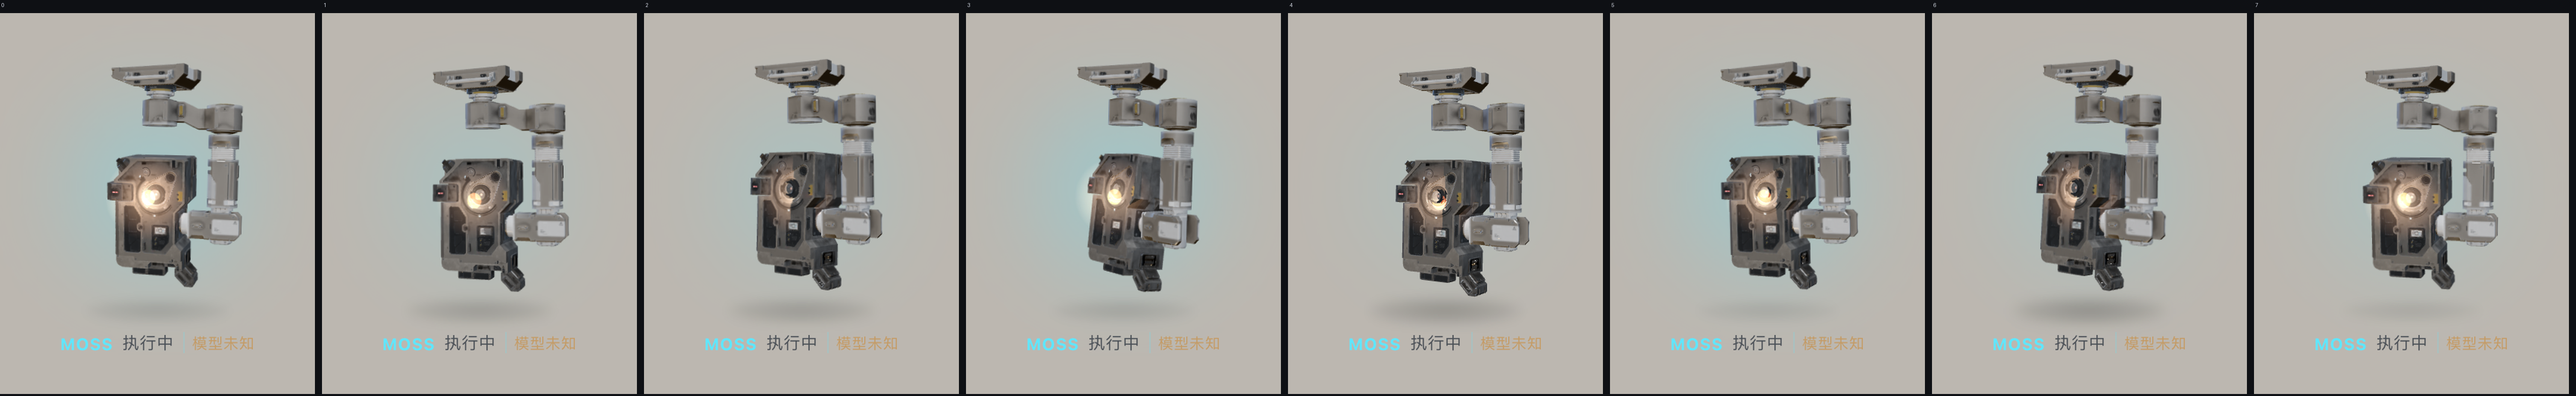
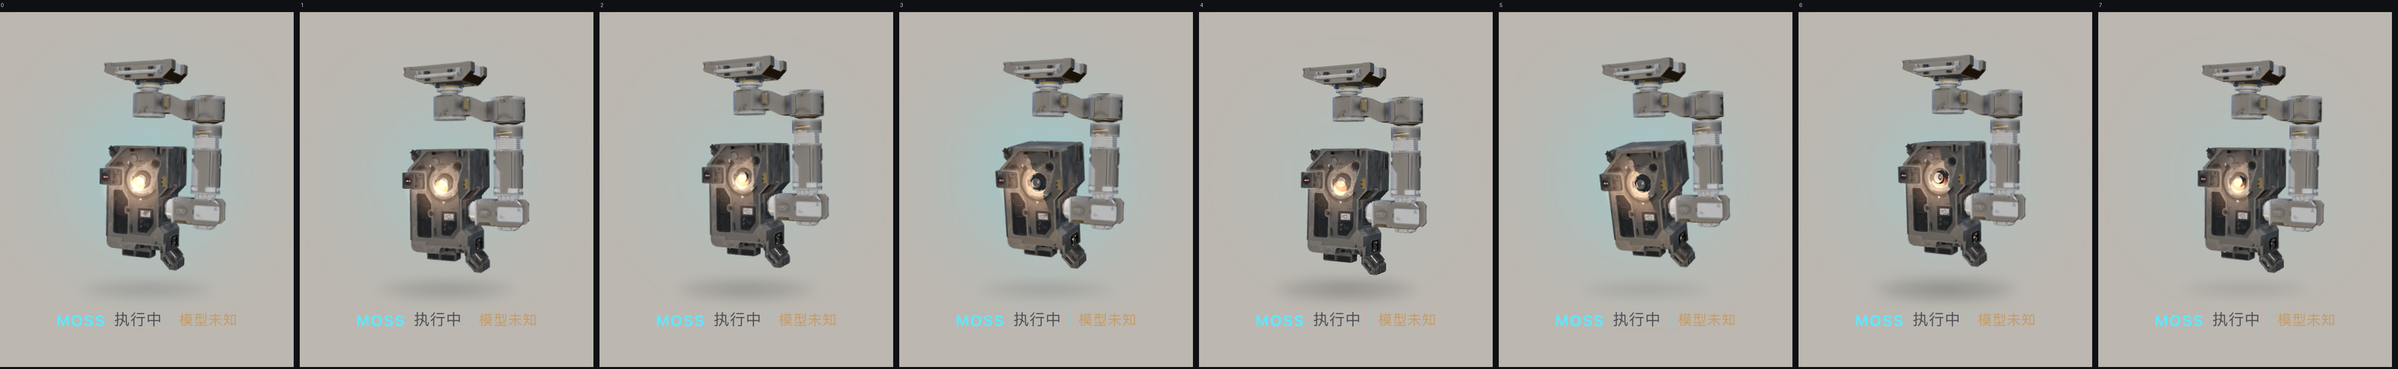
feat(moss): 执行态扩到 10 组动作，每组 20s（共 200s 循环）
1 扫视巡检 / 2 点头确认 / 3 分步转向 / 4 快扫 / 5 抬头检查 /
6 深度思考 / 7 锁定目标 / 8 反向复核 / 9 微动待机 / 10 归位
- 每组首尾均回到归位姿态，组间无跳变
- 每组 20s，关键帧含停顿段（机械节奏）与红眼亮度
- 素材版本 v72

diff --git a/assets3d/boot.js b/assets3d/boot.js
@@ -312,41 +312,107 @@ export function createMoss3D(canvas, opts) {
     ]
 
     const WORK = [
-      { name: '扫描', dur: 3.4, keys: [
-        { t: 0.0, a1: 0, a2: 0, a3: 0, eye: 0.75 },
-        { t: 1.1, a1: -19, a2: 8, a3: -4, eye: 1.00 },
-        { t: 1.7, a1: -19, a2: 8, a3: -4, eye: 0.70 },
-        { t: 2.8, a1: 19, a2: -8, a3: 5, eye: 1.00 },
-        { t: 3.4, a1: 19, a2: -8, a3: 5, eye: 0.80 },
+      /* 1 扫视巡检：左右大范围巡视，转向瞬间眼亮 */
+      { name: '扫视巡检', dur: 20, keys: [
+        { t: 0, a1: 0, a2: 0, a3: 0, eye: 0.70 },
+        { t: 3.5, a1: -20, a2: 9, a3: -3, eye: 1.00 },
+        { t: 6.5, a1: -20, a2: 9, a3: -3, eye: 0.60 },
+        { t: 10, a1: 20, a2: -9, a3: 4, eye: 1.00 },
+        { t: 13.5, a1: 20, a2: -9, a3: 4, eye: 0.60 },
+        { t: 16.5, a1: 6, a2: -3, a3: 1, eye: 0.85 },
+        { t: 20, a1: 0, a2: 0, a3: 0, eye: 0.70 },
       ] },
-      { name: '点头确认', dur: 2.2, keys: [
-        { t: 0.0, a1: 19, a2: -8, a3: 5, eye: 0.80 },
-        { t: 0.35, a1: 12, a2: -3, a3: 11, eye: 1.05 },
-        { t: 0.7, a1: 12, a2: -3, a3: -2, eye: 0.55 },
-        { t: 1.05, a1: 12, a2: -3, a3: 11, eye: 1.05 },
-        { t: 1.4, a1: 12, a2: -3, a3: -2, eye: 0.55 },
-        { t: 2.2, a1: 12, a2: -3, a3: 0, eye: 0.85 },
+      /* 2 点头确认：三次点头，每次闪一下 */
+      { name: '点头确认', dur: 20, keys: [
+        { t: 0, a1: 0, a2: 0, a3: 0, eye: 0.70 },
+        { t: 2, a1: 0, a2: 0, a3: 10, eye: 1.05 },
+        { t: 3, a1: 0, a2: 0, a3: -3, eye: 0.50 },
+        { t: 5, a1: 0, a2: 0, a3: 10, eye: 1.05 },
+        { t: 6, a1: 0, a2: 0, a3: -3, eye: 0.50 },
+        { t: 8, a1: 0, a2: 0, a3: 10, eye: 1.05 },
+        { t: 9.2, a1: 0, a2: 0, a3: -3, eye: 0.50 },
+        { t: 13, a1: 7, a2: -3, a3: 3, eye: 0.85 },
+        { t: 17, a1: -4, a2: 2, a3: -1, eye: 0.75 },
+        { t: 20, a1: 0, a2: 0, a3: 0, eye: 0.70 },
       ] },
-      { name: '转向停顿', dur: 3.6, keys: [
-        { t: 0.0, a1: 12, a2: -3, a3: 0, eye: 0.85 },
-        { t: 0.6, a1: -16, a2: 7, a3: -3, eye: 1.00 },
-        { t: 1.5, a1: -16, a2: 7, a3: -3, eye: 0.62 },
-        { t: 2.1, a1: -16, a2: -9, a3: -6, eye: 0.95 },
-        { t: 3.0, a1: -16, a2: -9, a3: -6, eye: 0.70 },
-        { t: 3.6, a1: -10, a2: -4, a3: -2, eye: 0.85 },
+      /* 3 分步转向：走一步、停一下，机械感 */
+      { name: '分步转向', dur: 20, keys: [
+        { t: 0, a1: 0, a2: 0, a3: 0, eye: 0.72 },
+        { t: 1.8, a1: 24, a2: -10, a3: 0, eye: 1.00 },
+        { t: 6.5, a1: 24, a2: -10, a3: 0, eye: 0.58 },
+        { t: 8.2, a1: 24, a2: -10, a3: -7, eye: 0.95 },
+        { t: 13, a1: 24, a2: -10, a3: -7, eye: 0.55 },
+        { t: 15, a1: -18, a2: 8, a3: 3, eye: 1.00 },
+        { t: 17.2, a1: -18, a2: 8, a3: 3, eye: 0.65 },
+        { t: 20, a1: 0, a2: 0, a3: 0, eye: 0.72 },
       ] },
-      { name: '快扫', dur: 2.4, keys: [
-        { t: 0.0, a1: -10, a2: -4, a3: -2, eye: 0.85 },
-        { t: 0.3, a1: 4, a2: -2, a3: 2, eye: 1.10 },
-        { t: 0.6, a1: -12, a2: 5, a3: -3, eye: 0.70 },
-        { t: 0.9, a1: 6, a2: -3, a3: 3, eye: 1.10 },
-        { t: 1.2, a1: -8, a2: 3, a3: -2, eye: 0.70 },
-        { t: 1.6, a1: 2, a2: -1, a3: 1, eye: 0.95 },
-        { t: 2.4, a1: 0, a2: 0, a3: 0, eye: 0.80 },
+      /* 4 快扫：高频小幅摆动五次 */
+      { name: '快扫', dur: 20, keys: [
+        { t: 0, a1: 0, a2: 0, a3: 0, eye: 0.75 },
+        { t: 1.2, a1: 11, a2: -5, a3: 3, eye: 1.10 },
+        { t: 2.4, a1: -11, a2: 5, a3: -3, eye: 0.65 },
+        { t: 3.6, a1: 11, a2: -5, a3: 3, eye: 1.10 },
+        { t: 4.8, a1: -11, a2: 5, a3: -3, eye: 0.65 },
+        { t: 6, a1: 11, a2: -5, a3: 3, eye: 1.10 },
+        { t: 8, a1: 0, a2: 0, a3: 0, eye: 0.70 },
+        { t: 12, a1: -8, a2: 4, a3: -2, eye: 0.95 },
+        { t: 16, a1: 8, a2: -4, a3: 2, eye: 0.95 },
+        { t: 20, a1: 0, a2: 0, a3: 0, eye: 0.70 },
       ] },
-      { name: '归位', dur: 1.2, keys: [
-        { t: 0.0, a1: 0, a2: 0, a3: 0, eye: 0.80 },
-        { t: 1.2, a1: 0, a2: 0, a3: 0, eye: 0.62 },
+      /* 5 抬头检查：抬起来看，停住，再放回 */
+      { name: '抬头检查', dur: 20, keys: [
+        { t: 0, a1: 0, a2: 0, a3: 0, eye: 0.70 },
+        { t: 3, a1: 4, a2: -2, a3: 12, eye: 1.00 },
+        { t: 8, a1: 4, a2: -2, a3: 12, eye: 0.62 },
+        { t: 11, a1: -6, a2: 3, a3: -8, eye: 0.95 },
+        { t: 15, a1: -6, a2: 3, a3: -8, eye: 0.60 },
+        { t: 20, a1: 0, a2: 0, a3: 0, eye: 0.70 },
+      ] },
+      /* 6 深度思考：慢慢漂，长时间停住，眼缓慢起伏 */
+      { name: '深度思考', dur: 20, keys: [
+        { t: 0, a1: 0, a2: 0, a3: 0, eye: 0.55 },
+        { t: 5, a1: 5, a2: -2, a3: -4, eye: 0.80 },
+        { t: 12, a1: 6, a2: -3, a3: -4.5, eye: 0.62 },
+        { t: 16, a1: -3, a2: 1.5, a3: 2, eye: 0.72 },
+        { t: 20, a1: 0, a2: 0, a3: 0, eye: 0.55 },
+      ] },
+      /* 7 锁定目标：扫一圈后锁定一点，久停，眼最亮 */
+      { name: '锁定目标', dur: 20, keys: [
+        { t: 0, a1: 0, a2: 0, a3: 0, eye: 0.72 },
+        { t: 2.5, a1: -16, a2: 7, a3: 2, eye: 0.90 },
+        { t: 5, a1: 14, a2: -6, a3: -2, eye: 0.90 },
+        { t: 7.5, a1: 22, a2: -9, a3: 5, eye: 1.15 },
+        { t: 13, a1: 22, a2: -9, a3: 5, eye: 0.95 },
+        { t: 15.5, a1: 10, a2: -4, a3: 2, eye: 1.10 },
+        { t: 20, a1: 0, a2: 0, a3: 0, eye: 0.72 },
+      ] },
+      /* 8 反向复核：从另一侧再扫一遍 */
+      { name: '反向复核', dur: 20, keys: [
+        { t: 0, a1: 0, a2: 0, a3: 0, eye: 0.70 },
+        { t: 4, a1: 17, a2: -8, a3: -3, eye: 0.95 },
+        { t: 7, a1: 17, a2: -8, a3: -3, eye: 0.58 },
+        { t: 11, a1: -17, a2: 8, a3: 3, eye: 0.95 },
+        { t: 14, a1: -17, a2: 8, a3: 3, eye: 0.58 },
+        { t: 17, a1: -6, a2: 3, a3: 1, eye: 0.85 },
+        { t: 20, a1: 0, a2: 0, a3: 0, eye: 0.70 },
+      ] },
+      /* 9 微动待机：几乎不动，只偶尔闪一下 */
+      { name: '微动待机', dur: 20, keys: [
+        { t: 0, a1: 0, a2: 0, a3: 0, eye: 0.45 },
+        { t: 4, a1: 2.5, a2: -1, a3: 1.5, eye: 0.50 },
+        { t: 8, a1: -2, a2: 1, a3: -1, eye: 1.05 },
+        { t: 9, a1: -2, a2: 1, a3: -1, eye: 0.45 },
+        { t: 14, a1: 1.5, a2: -0.6, a3: 0.8, eye: 0.52 },
+        { t: 20, a1: 0, a2: 0, a3: 0, eye: 0.45 },
+      ] },
+      /* 10 归位：收尾，轻点头后回正 */
+      { name: '归位', dur: 20, keys: [
+        { t: 0, a1: 0, a2: 0, a3: 0, eye: 0.70 },
+        { t: 3, a1: 3, a2: -1.5, a3: 4, eye: 0.90 },
+        { t: 6, a1: 3, a2: -1.5, a3: -2, eye: 0.60 },
+        { t: 9, a1: 3, a2: -1.5, a3: 4, eye: 0.90 },
+        { t: 13, a1: -2, a2: 1, a3: 0, eye: 0.65 },
+        { t: 20, a1: 0, a2: 0, a3: 0, eye: 0.55 },
       ] },
     ]
 

diff --git a/client/client.js b/client/client.js
@@ -37,7 +37,7 @@ window.__ModuleLoader__.load({
     var ROOT_ID = 'dsh-pet-liang-root'
     var POS_KEY = 'dsh-pet-liang:pos'
     /* 素材改了名字没变，加一个版本号强制浏览器重新取（宿主给的是 immutable 缓存） */
-    var ASSET_V = '71'
+    var ASSET_V = '72'
     var STYLE_ID = 'dsh-pet-liang-style'
 
     /** 四档推理等级对应的称呼与氛围色。 */

diff --git a/README.md b/README.md
@@ -126,7 +126,20 @@ MOSS 形象不再用预渲染 PNG，而是**在插件里实时渲染你提供的
   | 思考 | 4.2s | 低头 −2.6° 并停顿，眼升到 0.72 再落 |
   | 微调 | 3.4s | 小幅反向修正，眼 0.52 |
 
-  **执行态**（大幅、机械感、多组轮流，总时长 12.8s 循环；每段“走完再停”缓动）
+  **执行态**（10 组 × 20s，共 200s 循环；每组首尾都回到归位姿态，组间不跳变；缓动为「走完再停」的机械节奏）
+
+  | # | 动作组 | 内容 | 红眼 |
+  | --- | --- | --- | --- |
+  | 1 | 扫视巡检 | 左 20° → 右 20°，各停顿 3s | 转向时 1.00，停顿降到 0.60 |
+  | 2 | 点头确认 | 连续三次点头（+10°/−3°） | 每次点头闪 1.05 |
+  | 3 | 分步转向 | 右转 24° 停 4.7s → 腕部再压 −7° 停 4.8s → 左转 18° | 移动时 1.00，停顿 0.55 |
+  | 4 | 快扫 | 1.2s 一次的高频摆动 ×5，再慢扫两次 | 快速摆动瞬间 1.10 |
+  | 5 | 抬头检查 | 抬头 12° 停 5s → 低头 −8° 停 4s | 抬头 1.00 |
+  | 6 | 深度思考 | 缓慢漂移并长时间停住 | 缓慢起伏 0.55~0.80 |
+  | 7 | 锁定目标 | 左右扫两次后锁定一点，久停 | 锁定瞬间 1.15 |
+  | 8 | 反向复核 | 从另一侧再扫一遍，中间停顿 | 移动 0.95，停顿 0.58 |
+  | 9 | 微动待机 | 几乎不动，只有细微调整 | 偶发一次闪 1.05 |
+  | 10 | 归位 | 轻点头两次后回正 | 0.90 → 0.55 |
 
   | 动作段 | 时长 | 内容 |
   | --- | --- | --- |
